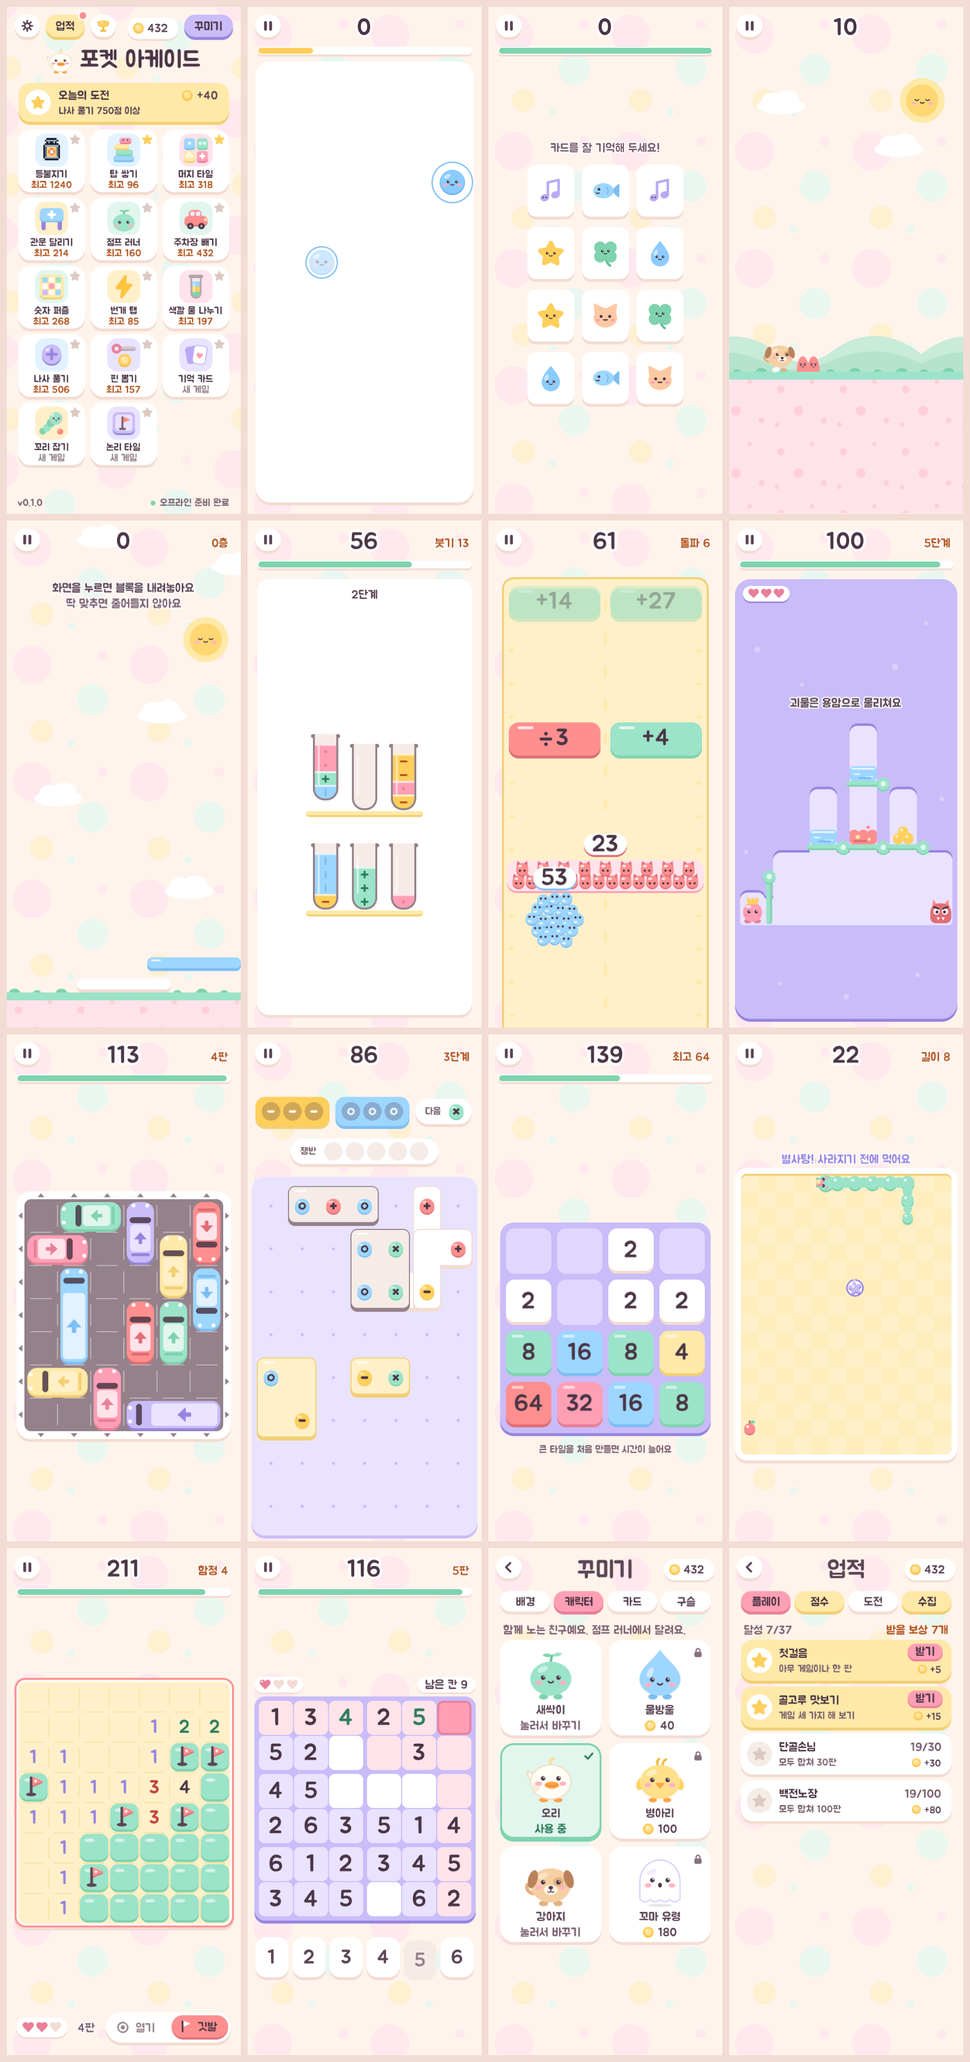
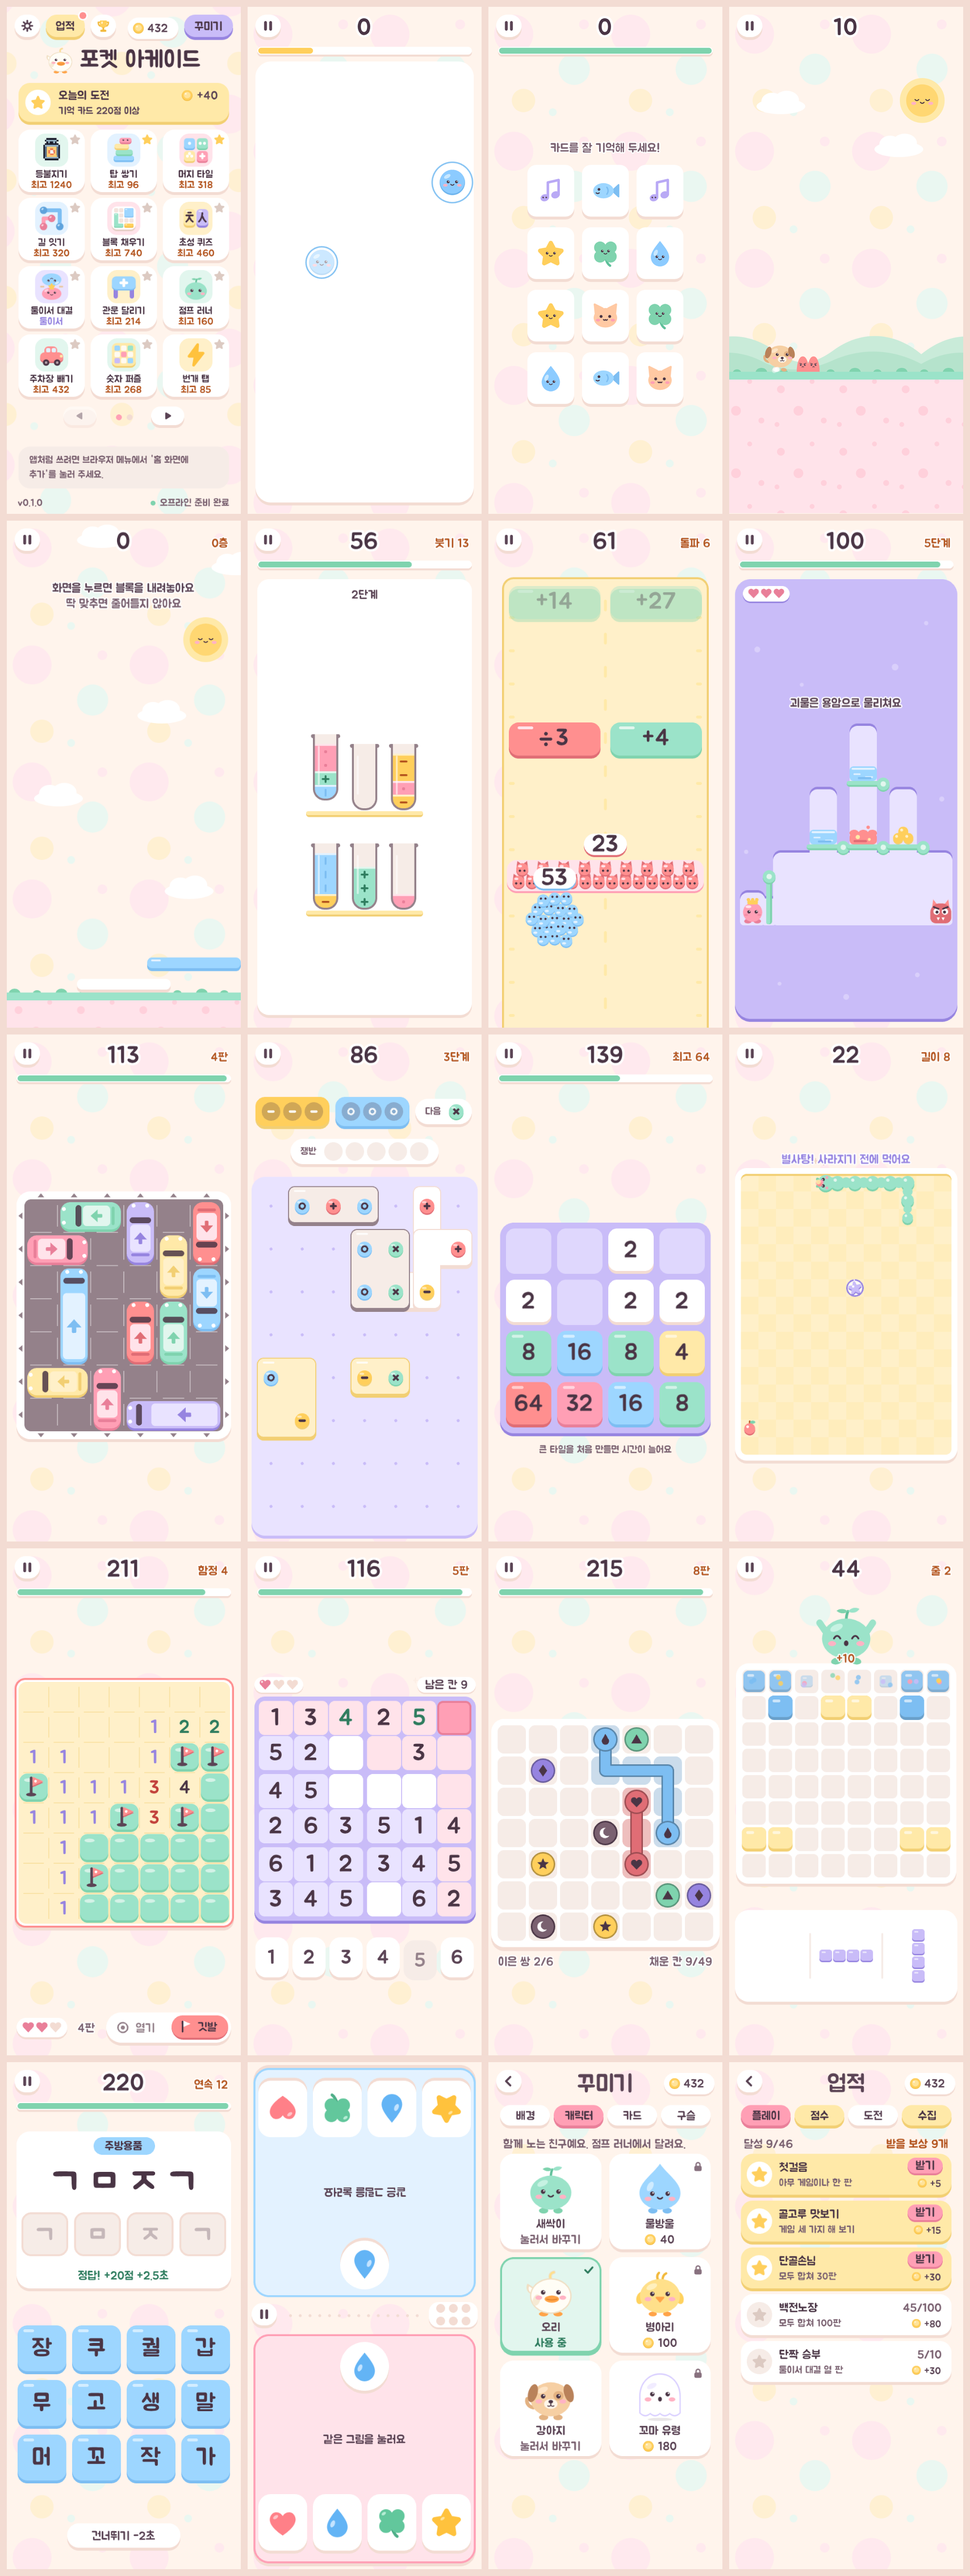
길 잇기 점수 기준과 업적, 소개 글과 소개 그림에 새 게임 네 개 반영
- 길 잇기: 오늘의 도전 목표를 90, 300, 500점으로 맞추고 업적 둘(200점, 600점)을 넣는다
- README: 게임 목록, 업적 수(44개), 폴더 구조, 승패로 끝나는 게임을 넣는 법
- 소개 그림을 네 칸 다섯 줄로 다시 만든다(허브와 업적은 새로 찍음)
- 아이콘 파일의 주석 줄바꿈 바로잡기

Claude-Session: https://claude.ai/code/session_01CULoBuvaQaFRVnrCp83waH

diff --git a/src/core/achievements.ts b/src/core/achievements.ts
@@ -124,6 +124,8 @@ export const ACHIEVEMENTS: readonly Achievement[] = [
   { id: 'logic-800', group: 'score', title: '논리의 달인', description: '논리 타일 800점 이상', goal: 800, reward: 50, measure: bestOf('logic-tiles') },
   { id: 'number-350', group: 'score', title: '숫자 탐정', description: '숫자 퍼즐 350점 이상', goal: 350, reward: 20, measure: bestOf('number-puzzle') },
   { id: 'number-700', group: 'score', title: '숫자의 달인', description: '숫자 퍼즐 700점 이상', goal: 700, reward: 50, measure: bestOf('number-puzzle') },
+  { id: 'path-200', group: 'score', title: '술술 잇기', description: '길 잇기 200점 이상', goal: 200, reward: 20, measure: bestOf('path-link') },
+  { id: 'path-600', group: 'score', title: '길의 달인', description: '길 잇기 600점 이상', goal: 600, reward: 50, measure: bestOf('path-link') },
   { id: 'block-800', group: 'score', title: '빈틈없이', description: '블록 800점 이상', goal: 800, reward: 20, measure: bestOf('block-fill') },
   { id: 'block-1600', group: 'score', title: '블록의 달인', description: '블록 1600점 이상', goal: 1600, reward: 50, measure: bestOf('block-fill') },
   { id: 'chosung-500', group: 'score', title: '낱말 박사', description: '초성 퀴즈 500점 이상', goal: 500, reward: 20, measure: bestOf('chosung-quiz') },

diff --git a/src/art/vector.ts b/src/art/vector.ts
@@ -646,7 +646,8 @@ const ICONS: Record<string, Art> = {
         }
       }
     },
-  },  /** 길 잇기: 같은 색 점 두 쌍을 서로 겹치지 않는 굽은 선으로 이은 모습 */
+  },
+  /** 길 잇기: 같은 색 점 두 쌍을 서로 겹치지 않는 굽은 선으로 이은 모습 */
   'icon-path': {
     width: 32,
     height: 32,

diff --git a/src/games/registry.ts b/src/games/registry.ts
@@ -140,7 +140,7 @@ export const GAMES: readonly MiniGameInfo[] = [
     icon: 'icon-path',
     sceneKey: SCENE.pathLink,
     coinsFor: (score) => Math.floor(score / 25),
-    dailyTargets: [100, 200, 300],
+    dailyTargets: [90, 300, 500],
   },
   {
     id: 'block-fill',

diff --git a/README.md b/README.md
@@ -4,7 +4,7 @@
 한 번 접속해 두면 그 뒤로는 인터넷 없이 실행되고, 기록은 기기 안에 저장됩니다.
 인터넷이 될 때는 닉네임으로 온라인 랭킹에 참여하고, 코드로 기록을 다른 기기에 옮길 수 있습니다(계정 없음).
 
-![첫 줄: 허브, 번개 탭, 기억 카드, 점프 러너. 둘째 줄: 탑 쌓기, 색깔 물 나누기, 관문 달리기, 핀 뽑기. 셋째 줄: 주차장 빼기, 나사 풀기, 머지 타일, 꼬리 잡기. 넷째 줄: 논리 타일, 숫자 퍼즐, 꾸미기 상점, 업적](docs/screenshots.png)
+![첫 줄: 허브, 번개 탭, 기억 카드, 점프 러너. 둘째 줄: 탑 쌓기, 색깔 물 나누기, 관문 달리기, 핀 뽑기. 셋째 줄: 주차장 빼기, 나사 풀기, 머지 타일, 꼬리 잡기. 넷째 줄: 논리 타일, 숫자 퍼즐, 길 잇기, 블록 채우기. 다섯째 줄: 초성 퀴즈, 둘이서 대결, 꾸미기 상점, 업적](docs/screenshots.png)
 
 ## 지금 들어 있는 것
 
@@ -23,9 +23,13 @@
 - **꼬리 잡기**: 저절로 기어가는 애벌레를 화면을 밀어 돌리며 먹이를 먹이는 게임 (먹을수록 몸이 길어지고 빨라지며, 벽이나 제 몸에 부딪히면 끝. 가끔 나오는 별사탕은 사라지기 전에 먹으면 큰 점수)
 - **논리 타일**: 숫자 힌트를 보고 함정이 없는 칸만 골라 여는 퍼즐 (숫자는 둘레 여덟 칸에 숨은 함정의 수. 길게 누르거나 깃발 버튼으로 함정 자리를 표시하고, 함정을 밟으면 하트를 잃음. 하트 세 개나 시간이 다 떨어지면 끝. 모든 판은 찍지 않고 풀 수 있게 나옴)
 - **숫자 퍼즐**: 가로줄, 세로줄, 상자마다 숫자가 한 번씩 들어가게 빈칸을 채우는 퍼즐 (4×4에서 시작해 6×6, 9×9로 커지고, 틀린 숫자를 두면 하트를 잃음. 하트 세 개나 시간이 다 떨어지면 끝. 모든 판은 찍지 않고 풀 수 있게 나옴)
+- **길 잇기**: 같은 모양의 점 두 개를 선으로 이어, 선끼리 겹치지 않게 판의 모든 칸을 채우는 퍼즐 (60초로 시작해 판을 깰 때마다 시간을 돌려받고, 5×5에서 시작해 6×6, 7×7로 커짐. 시간이 다 떨어지면 끝. 모든 판은 칸을 다 채우는 풀이가 있게 나옴)
+- **블록 채우기**: 블록 세 개를 끌어다 8×8 판에 놓아 가로줄이나 세로줄을 가득 채워 지우는 퍼즐 (시간 제한 없음. 블록은 돌릴 수 없고, 여러 줄을 한꺼번에 지우거나 놓을 때마다 연달아 지우면 점수가 더 붙음. 놓을수록 크고 까다로운 블록이 자주 나오고, 남은 블록을 놓을 곳이 없으면 끝)
+- **초성 퀴즈**: 분류와 초성을 보고 아래의 글자 조각을 차례로 눌러 낱말을 완성하는 게임 (60초로 시작해 맞히면 시간을 조금 돌려받고, 틀리거나 건너뛰면 시간이 깎임. 맞힐수록 낱말이 두 글자에서 네 글자까지 길어지고, 이어서 맞히면 점수가 더 붙음. 낱말은 25개 분류 773개)
+- **둘이서 대결**: 화면을 위아래로 나눠 마주 앉은 두 사람이 짧은 승부를 겨뤄 먼저 세 판을 이기는 쪽이 승리하는 2인용 게임 (번쩍 반응, 연타 줄다리기, 같은 그림 찾기가 번갈아 나옴. 신호보다 먼저 누르면 반칙, 틀린 그림을 누르면 1초 쉼. 점수 없이 승패로 끝나서 허브 카드에는 최고 기록 대신 "둘이서"가 보이고, 랭킹과 오늘의 도전에는 나오지 않음)
 - **등불지기**: 허브 맨 앞에 놓이는 대표 게임. 몰려오는 그림자 무리 사이를 끌어서 움직이며 10분을 버티는 서바이벌 (공격은 자동, 레벨이 오를 때마다 강화 셋 중 하나 선택, 무기는 7종 가운데 4개까지). 2분마다 중간 보스가 나오고(부하를 부르는 것, 돌진하는 것, 빛덩이를 쏘는 것 세 가지), 잡으면 받는 무기 강화권으로 무기를 한 단계 올리거나 5레벨 무기를 최종 진화형으로 바꿉니다. 10분에 마지막 보스가 나옵니다. 보스는 공격하기 전에 미리 알려 줍니다(돌진할 길이 바닥에 붉게 보이고, 쏘기 전에는 빛을 모읍니다). 캐릭터 셋(시작 무기와 타고난 특성이 다름)과 스테이지 둘(밤의 풀밭, 웅덩이에 빠지면 느려지는 안개 늪) 가운데 골라 시작하고, 오래 버틴 기록이 쌓이면 잠긴 것이 열립니다. 판이 끝나면 받는 불씨로 영구 강화 열한 가지를 사서 다음 판이 조금씩 쉬워집니다(레벨업 선택지를 다시 뽑는 것, 시작할 때 강화를 하나 더 고르는 것도 여기서 삽니다). 새벽을 맞으면 그 스테이지의 **깊은 밤**이 한 단계 열립니다(8단계까지). 단계가 깊을수록 적이 세지고 점수와 불씨가 더 붙어서, 완주한 뒤에도 기록을 더 올릴 수 있습니다. 준비 화면의 **도전 과제** 15개는 달성하면 눌러서 불씨를 받습니다. 일시정지하면 지금 빌드(무기와 패시브의 이름과 레벨, 무기마다 준 피해의 비중)가 보이고, 결과 화면에도 무기별 피해가 나옵니다. 화면 밖에 있는 보스는 가장자리의 화살표가 가리킵니다. 도중에 앱을 닫아도 이어서 할 수 있고, 하던 판이 있을 때 새로 시작하려면 한 번 더 눌러야 합니다.
 - **꾸미기 상점**: 모은 코인으로 배경 무늬, 캐릭터(새싹이, 물방울, 오리, 병아리, 강아지, 꼬마 유령), 기억 카드 뒷면, 번개 탭 구슬을 사서 바꿉니다. 고른 캐릭터는 점프 러너에서 달리고 허브와 결과 화면에도 나옵니다. 겉모습만 바뀌고 게임 규칙은 그대로입니다.
-- **업적**: 판 수, 최고 점수, 오늘의 도전, 꾸미기 수집으로 달성하는 목표 39개. 달성하면 업적 화면에서 눌러 코인을 받습니다. 업적이 생기기 전에 쌓은 기록도 인정됩니다.
+- **업적**: 판 수, 최고 점수, 오늘의 도전, 꾸미기 수집으로 달성하는 목표 46개. 달성하면 업적 화면에서 눌러 코인을 받습니다. 업적이 생기기 전에 쌓은 기록도 인정됩니다.
 - **온라인 랭킹**: 닉네임을 정하면 게임별 최고 점수가 랭킹에 올라갑니다(허브의 우승컵 버튼, 결과 화면의 랭킹 줄). 계정도 개인 정보도 없이 닉네임과 점수만 올립니다. 닉네임을 정하기 전에는 서버에 아무것도 보내지 않고, 인터넷이 없을 때 낸 기록은 다음에 연결될 때 올라갑니다. 랭킹 화면에서 닉네임을 바꾸거나 내 기록을 랭킹에서 뺄 수 있습니다.
 - **다른 기기로 옮기기**: 설정에서 "코드 만들기"를 누르면 8글자 코드가 나오고, 15분 안에 다른 기기의 "코드 입력"에 넣으면 기록(코인, 꾸미기, 업적, 등불지기의 불씨와 강화, 하던 판, 닉네임)이 그 기기로 옮겨집니다.
 - **세이브**: 기기 안(IndexedDB)에 자동 저장, 파일로 내보내기·가져오기(등불지기 진행 포함), 초기화
@@ -190,6 +194,10 @@ src/
     tail-chase/        꼬리 잡기 (rules.ts에 움직임과 속도, 먹이와 별사탕, 점수)
     logic-tiles/       논리 타일 (rules.ts에 열기와 깃발, 판 만들기와 풀이, 시간과 점수)
     number-puzzle/     숫자 퍼즐 (rules.ts에 줄과 상자, 판 만들기와 풀이, 시간과 점수)
+    path-link/         길 잇기 (rules.ts에 판 만들기, 선 긋기 규칙, 완성 판정, 시간과 점수)
+    block-fill/        블록 채우기 (rules.ts에 블록 모양과 놓기, 줄 지우기와 점수, 나눠 주기와 난이도)
+    chosung-quiz/      초성 퀴즈 (rules.ts에 초성 뽑기, 문제와 조각 만들기, 시간과 점수. words.ts에 낱말 목록)
+    duel/              둘이서 대결 (rules.ts에 세 종목과 경기 흐름, 동시에 누른 터치 가리기)
     lantern-keeper/    등불지기 (아래 "등불지기 구조" 참고)
 scripts/gen-icons.mjs  앱 아이콘을 코드로 생성
 ```
@@ -204,6 +212,7 @@ scripts/gen-icons.mjs  앱 아이콘을 코드로 생성
 4. `src/games/registry.ts`에 게임 정보를 추가하면 허브에 카드가 생깁니다. 같이 적는 `dailyTargets`(쉬움, 보통, 어려움 순서의 목표 점수 세 개)는 오늘의 도전에 쓰입니다. 게임이 늘어 허브 한 화면에 다 들어가지 않으면 목록이 저절로 쪽으로 나뉩니다.
 5. 그 게임의 점수 업적을 두려면 `src/core/achievements.ts`에 한두 줄을 넣습니다.
 6. `src/online/protocol.ts`의 `RANKED_GAMES`에 게임 id를 넣으면 온라인 랭킹이 생깁니다. 빠뜨리면 테스트가 알려 줍니다.
+7. 둘이서 겨뤄 승패로 끝나는 게임은 `registry.ts`에 `versus: true`를 적고, 끝날 때 `finishMiniGame` 대신 `finishVersusMatch()`를 부릅니다. 이런 게임은 랭킹과 오늘의 도전에 넣지 않고, 누가 이겼는지는 그 게임의 화면에서 보여 줍니다(`games/duel/` 참고).
 
 규칙과 난이도는 `rules.ts`처럼 화면과 분리된 순수 함수로 두면 숫자만 바꿔 밸런스를 잡을 수 있고 테스트하기도 쉽습니다.
 
